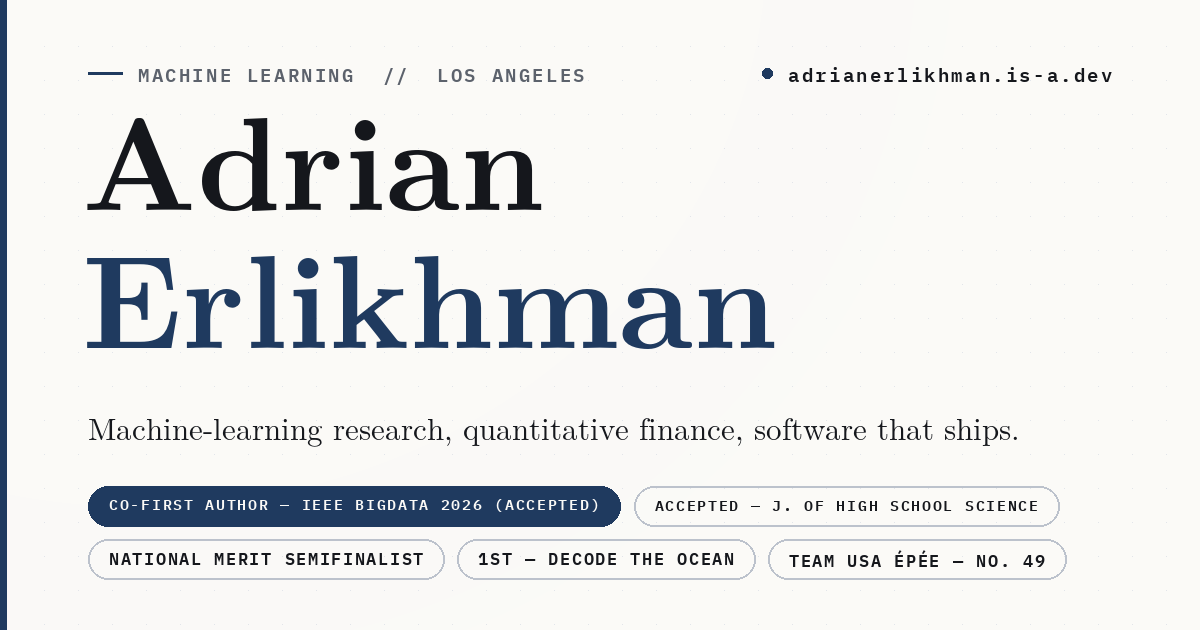
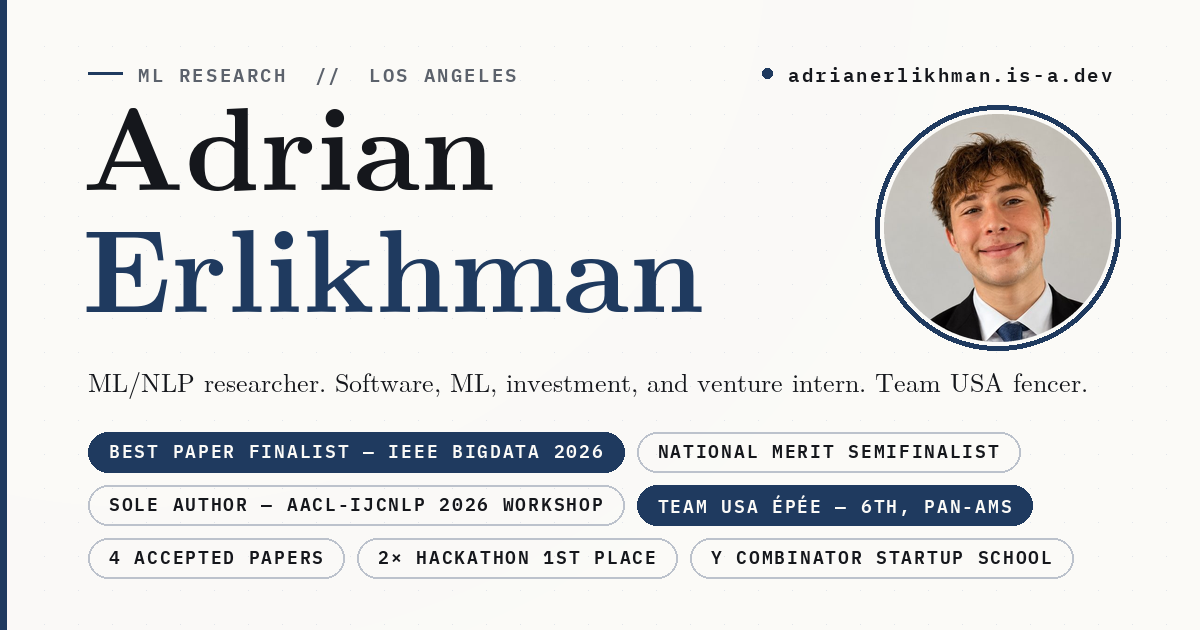
Link preview: headshot, Best Paper Finalist, a stronger credential wall (#174)
The og card (what a text or a Slack message shows before the link is
tapped) gets Adrian's headshot in a navy ring beside the name, his
meta-description words as the tagline, and three rows of chips: Best
Paper Finalist (IEEE BigData 2026), National Merit Semifinalist, sole
author at the AACL-IJCNLP 2026 workshop, Team USA épée 6th at Pan-Ams,
4 accepted papers, 2x hackathon 1st place, YC Startup School.

The old card's "ACCEPTED — J. OF HIGH SCHOOL SCIENCE" broke the
"accepted with revisions" rule. og.png ?v=8 on both pages; alt text
rewritten to match.

diff --git a/index.html b/index.html
@@ -34,17 +34,17 @@
 <meta property="og:title" content="Adrian Erlikhman — ML Research · Full-Stack · Team USA Épée">
 <meta property="og:description" content="ML/NLP researcher. Software, ML, investment, and venture intern. Team USA fencer.">
 <meta property="og:url" content="https://adrianerlikhman.is-a.dev/">
-<meta property="og:image" content="https://adrianerlikhman.is-a.dev/og.png?v=7">
+<meta property="og:image" content="https://adrianerlikhman.is-a.dev/og.png?v=8">
 <meta property="og:image:width" content="1200">
 <meta property="og:image:height" content="630">
 <meta property="og:image:type" content="image/png">
-<meta property="og:image:alt" content="Adrian Erlikhman — machine-learning research, quantitative finance, software that ships. Co-first author, IEEE BigData 2026 High School Symposium (accepted); accepted to the Journal of High School Science, National Merit Semifinalist, 1st at Decode the Ocean, Team USA épée No. 49.">
+<meta property="og:image:alt" content="Adrian Erlikhman, ML/NLP researcher, software, ML, investment and venture intern, Team USA fencer. Best Paper Finalist, IEEE BigData 2026 High School Symposium; sole author, AACL-IJCNLP 2026 workshop; Team USA épée, 6th at the Pan-American Championships; National Merit Semifinalist; 4 accepted papers; two hackathon first places; Y Combinator Startup School. With his headshot.">
 <!-- Twitter card -->
 <meta name="twitter:card" content="summary_large_image">
 <meta name="twitter:title" content="Adrian Erlikhman — ML Research · Full-Stack · Team USA Épée">
 <meta name="twitter:description" content="ML/NLP researcher. Software, ML, investment, and venture intern. Team USA fencer.">
-<meta name="twitter:image" content="https://adrianerlikhman.is-a.dev/og.png?v=7">
-<meta name="twitter:image:alt" content="Adrian Erlikhman — machine-learning research, quantitative finance, software that ships. Co-first author, IEEE BigData 2026 High School Symposium (accepted); accepted to the Journal of High School Science, National Merit Semifinalist, 1st at Decode the Ocean, Team USA épée No. 49.">
+<meta name="twitter:image" content="https://adrianerlikhman.is-a.dev/og.png?v=8">
+<meta name="twitter:image:alt" content="Adrian Erlikhman, ML/NLP researcher, software, ML, investment and venture intern, Team USA fencer. Best Paper Finalist, IEEE BigData 2026 High School Symposium; sole author, AACL-IJCNLP 2026 workshop; Team USA épée, 6th at the Pan-American Championships; National Merit Semifinalist; 4 accepted papers; two hackathon first places; Y Combinator Startup School. With his headshot.">
 <link rel="preconnect" href="https://fonts.googleapis.com">
 <link rel="preconnect" href="https://fonts.gstatic.com" crossorigin>
 <link href="https://fonts.googleapis.com/css2?family=IBM+Plex+Mono:wght@400;500;600&display=swap" rel="stylesheet">

diff --git a/demos/index.html b/demos/index.html
@@ -19,7 +19,7 @@
 <meta property="og:title" content="Try it — Adrian Erlikhman">
 <meta property="og:description" content="Which model wrote this? Two demos from my research on model fingerprints, run on the papers' data.">
 <meta property="og:url" content="https://adrianerlikhman.is-a.dev/demos/">
-<meta property="og:image" content="https://adrianerlikhman.is-a.dev/og.png?v=7">
+<meta property="og:image" content="https://adrianerlikhman.is-a.dev/og.png?v=8">
 <meta name="twitter:card" content="summary_large_image">
 <link rel="preconnect" href="https://fonts.googleapis.com">
 <link rel="preconnect" href="https://fonts.gstatic.com" crossorigin>

diff --git a/tools/make_og.py b/tools/make_og.py
@@ -56,20 +56,33 @@ MONO_SB = os.path.join(FD, "IBMPlexMono-SemiBold.ttf")
 
 MARGIN = 88
 
-KICK_L = "MACHINE LEARNING  //  LOS ANGELES"
+KICK_L = "ML RESEARCH  //  LOS ANGELES"
 KICK_R = "adrianerlikhman.is-a.dev"
 NAME_1 = "Adrian"
 NAME_2 = "Erlikhman"
-TAGLINE = "Machine-learning research, quantitative finance, software that ships."
+# Adrian's own words, the same as the meta description (7 Oct)
+TAGLINE = "ML/NLP researcher. Software, ML, investment, and venture intern. Team USA fencer."
 
 # (text, filled) -- one row per list
+# 15 Oct: Best Paper Finalist leads. Every chip is on the site: "4 accepted
+# papers" is the hero's count (the two journals are accepted with revisions,
+# so neither is called just "accepted" on its own chip); Curated to Win is at
+# the ARRSI workshop, so the chip names the workshop, not the proceedings.
 CHIP_ROWS = [
-    [("CO-FIRST AUTHOR — IEEE BIGDATA 2026 (ACCEPTED)", True),
-     ("ACCEPTED — J. OF HIGH SCHOOL SCIENCE", False)],
-    [("NATIONAL MERIT SEMIFINALIST", False),
-     ("1ST — DECODE THE OCEAN", False),
-     ("TEAM USA ÉPÉE — NO. 49", False)],
+    [("BEST PAPER FINALIST — IEEE BIGDATA 2026", True),
+     ("NATIONAL MERIT SEMIFINALIST", False)],
+    [("SOLE AUTHOR — AACL-IJCNLP 2026 WORKSHOP", False),
+     ("TEAM USA ÉPÉE — 6TH, PAN-AMS", True)],
+    [("4 ACCEPTED PAPERS", False),
+     ("2× HACKATHON 1ST PLACE", False),
+     ("Y COMBINATOR STARTUP SCHOOL", False)],
 ]
+
+# the site's headshot, in a ring to the right of the name (15 Oct)
+PHOTO = os.path.join(os.path.dirname(FD), "..", "adrian.jpg")
+PHOTO_CROP = (196, 22, 684, 510)      # face and tie, square
+PHOTO_D = 228                         # diameter on the card
+PHOTO_XY = (W - MARGIN - PHOTO_D, 114)
 
 
 def lm(size, bold=True):
@@ -127,21 +140,40 @@ def build():
     tracked(d, (rx, ky), KICK_R, f_kick, INK, 2.6)
 
     # ---- name ---------------------------------------------------------
-    f_name = lm(132)
+    f_name = lm(118)
     a1 = d.textbbox((0, 0), NAME_1, font=f_name)
-    d.text((MARGIN - 6, 118 - a1[1]), NAME_1, font=f_name, fill=INK)
+    d.text((MARGIN - 6, 108 - a1[1]), NAME_1, font=f_name, fill=INK)
     a2 = d.textbbox((0, 0), NAME_2, font=f_name)
-    d.text((MARGIN - 6, 256 - a2[1]), NAME_2, font=f_name, fill=ACC)
+    d.text((MARGIN - 6, 230 - a2[1]), NAME_2, font=f_name, fill=ACC)
+
+    # ---- headshot -----------------------------------------------------
+    ph = Image.open(PHOTO).convert("RGB").crop(PHOTO_CROP)
+    k = 3                                   # draw big, shrink: smooth edges
+    ph = ph.resize((PHOTO_D * k, PHOTO_D * k), Image.LANCZOS)
+    m = Image.new("L", ph.size, 0)
+    ImageDraw.Draw(m).ellipse([0, 0, ph.size[0] - 1, ph.size[1] - 1], fill=255)
+    ph = ph.resize((PHOTO_D, PHOTO_D), Image.LANCZOS)
+    m = m.resize((PHOTO_D, PHOTO_D), Image.LANCZOS)
+    px, py = PHOTO_XY
+    ring = 5
+    d.ellipse([px - ring - 4, py - ring - 4, px + PHOTO_D + ring + 3, py + PHOTO_D + ring + 3], fill=ACC)
+    d.ellipse([px - 4, py - 4, px + PHOTO_D + 3, py + PHOTO_D + 3], fill=BG)
+    im.paste(ph, (px, py), m)
+    d = ImageDraw.Draw(im)
 
     # ---- tagline ------------------------------------------------------
-    ty = 418
+    ty = 372
+    size = 31
+    while size > 22 and d.textlength(TAGLINE, font=lm(size, bold=False)) > W - MARGIN * 2:
+        size -= 1
+    f_tag = lm(size, bold=False)
     tb = d.textbbox((0, 0), TAGLINE, font=f_tag)
     d.text((MARGIN, ty - tb[1]), TAGLINE, font=f_tag, fill=INK)
 
     # ---- chips --------------------------------------------------------
     pad_x, ch_h, gap = 21, 40, 13
     avail = W - MARGIN * 2
-    y = 486
+    y = 432
     for row in CHIP_ROWS:
         # monospace, so the row's width is predictable -- shrink until it fits
         size, track = 18, 1.7

diff --git a/CLAUDE.md b/CLAUDE.md
@@ -111,10 +111,10 @@ from LaTeX in `resume/`.
     both résumés say "Preprint, arXiv forthcoming", llms.txt and the JSON-LD
     description call it a preprint, and nothing on the site mentions TACL.
     The WLLFM paper is a different paper, so it doesn't go on this card.
-    BigData's LangLLM acceptance took TACL's place in the teasers: the og
-    chip "CO-FIRST AUTHOR — IEEE BIGDATA 2026 (ACCEPTED)" (`tools/make_og.py`,
-    og.png `?v=7`), the og/twitter alt text and the hero typewriter's first
-    line. Never "accepted" or NeurIPS.
+    BigData's LangLLM acceptance took TACL's place in the teasers (the og
+    card's lead chip, now "BEST PAPER FINALIST — IEEE BIGDATA 2026"; the
+    og/twitter alt text; the hero typewriter's first line). Never "accepted"
+    or NeurIPS for CompLLM.
     **Title since 11 Oct 2026: "Whose Line Is It Anyway? Auditing Self- and
     Other-Recognition in LLM Judges"** (the arXiv version's; Adrian took it
     from Philo's suggestions). The R.03 card, both résumés and llms.txt use
@@ -390,8 +390,17 @@ from LaTeX in `resume/`.
   (~33 KB each). GUST font licence. Google Fonts now loads only Plex Mono.
 - The demos' dark panels (`.guess`, the lab) went from warm brown to deep
   navy with a light-blue accent (`--g-acc:#9db8e0`); wrong answers stay red.
-- `og.png` (`tools/make_og.py`) uses navy and Latin Modern (`?v=7` on both
-  pages); the OTFs sit in the gitignored `tools/fonts/`. The 404 page keeps
+- `og.png` (`tools/make_og.py`) uses navy and Latin Modern (`?v=8` on both
+  pages); the OTFs sit in the gitignored `tools/fonts/`. **Since 15 Oct**
+  (Adrian, before texting the link: "a lot more better stuff… more
+  impressive") it carries his headshot (`adrian.jpg`) in a navy ring right of
+  the name, his meta-description words as the tagline, and three chip rows:
+  Best Paper Finalist (filled) · National Merit / sole author, AACL-IJCNLP 2026
+  workshop · Team USA épée, 6th at Pan-Ams (filled) / 4 accepted papers · 2×
+  hackathon 1st place · YC Startup School. The old card's "ACCEPTED — J. OF
+  HIGH SCHOOL SCIENCE" broke the "accepted with revisions" rule; no journal is
+  named on a chip now. Bump `?v=` on both pages when it changes; chat apps
+  cache the first preview of a URL. The 404 page keeps
   its own dark neon design.
 
 ## Shared assets
